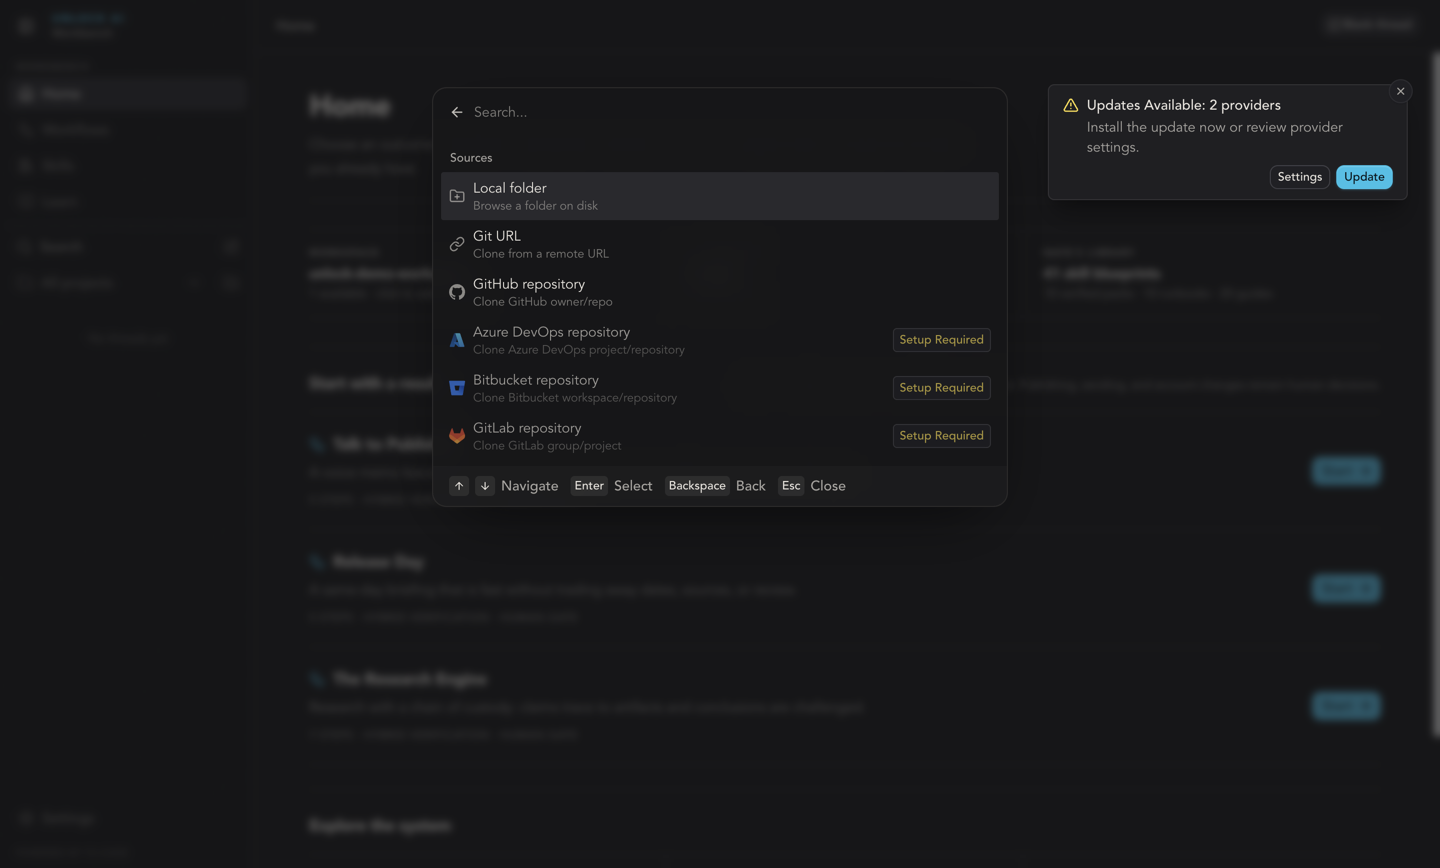
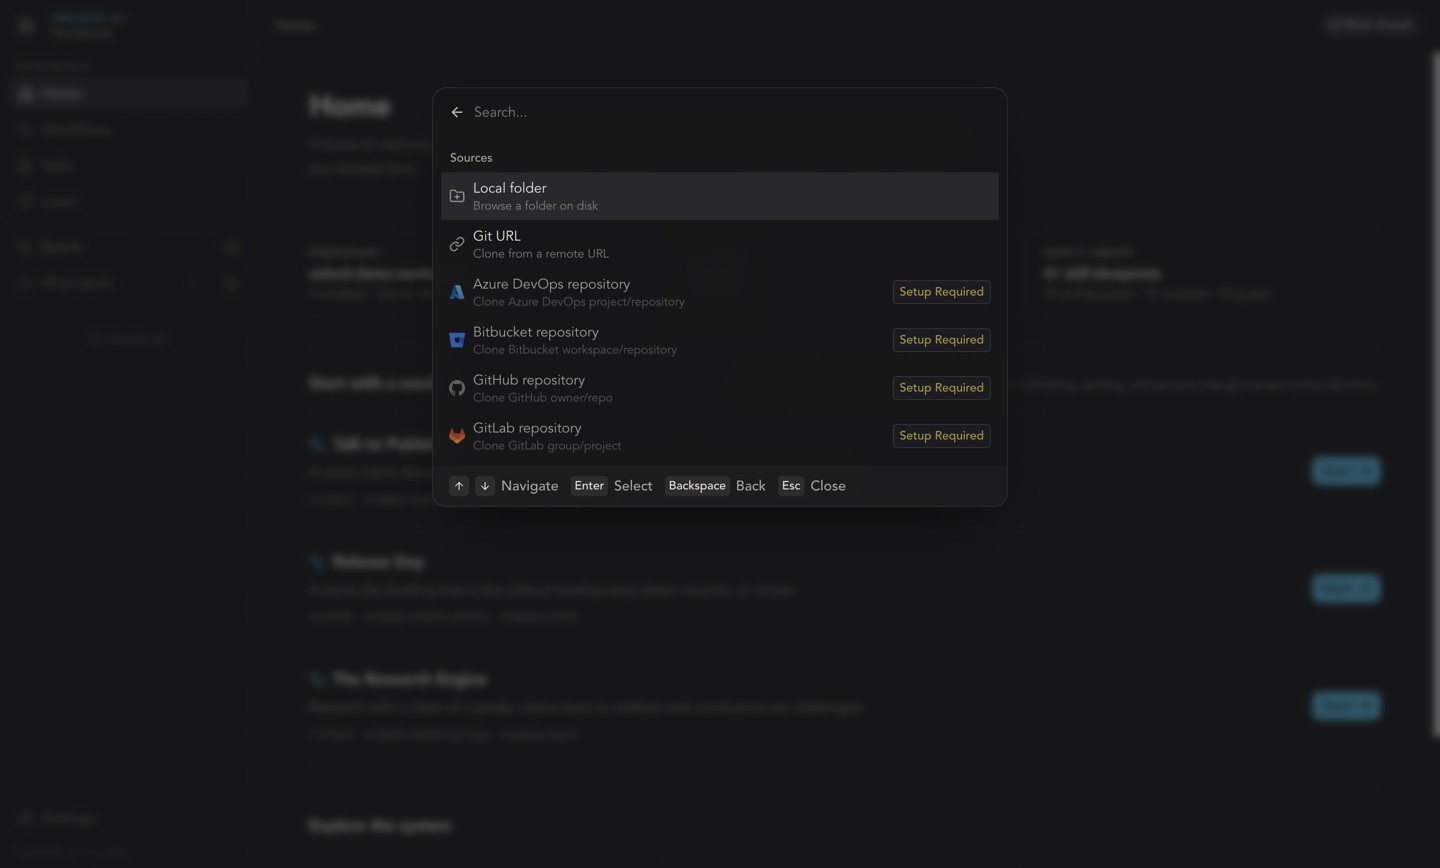
fix(web): provider updates live in Settings, not a launch popup; refresh tour screenshots
The update notice interrupted every first session and photobombed the
visual tour. Provider update status and one-click install remain in
Settings -> Providers. All ten tour screenshots recaptured clean.

diff --git a/apps/web/src/routes/__root.tsx b/apps/web/src/routes/__root.tsx
@@ -17,7 +17,6 @@ import { CommandPalette } from "../components/CommandPalette";
 import { ConnectOnboardingDialog } from "../components/cloud/ConnectOnboardingDialog";
 import { RelayClientInstallDialog } from "../components/cloud/RelayClientInstallDialog";
 import { SshPasswordPromptDialog } from "../components/desktop/SshPasswordPromptDialog";
-import { ProviderUpdateLaunchNotification } from "../components/ProviderUpdateLaunchNotification";
 import { SlowRpcRequestToastCoordinator } from "../components/SlowRpcRequestToastCoordinator";
 import { Button } from "../components/ui/button";
 import {
@@ -137,7 +136,7 @@ function RootRouteView() {
         <SlowRpcRequestToastCoordinator />
         <HostedStaticEnvironmentBootstrap />
         {primaryEnvironmentAuthenticated ? <EventRouter /> : null}
-        {primaryEnvironmentAuthenticated ? <ProviderUpdateLaunchNotification /> : null}
+        {/* Workbench keeps provider updates in Settings; no launch interruption. */}
         {appShell}
       </AnchoredToastProvider>
     </ToastProvider>

diff --git a/docs/user/visual-tour.md b/docs/user/visual-tour.md
@@ -14,7 +14,7 @@ Home answers one question: are you ready to run something? The three tiles acros
 
 Below the tiles, **Start with a result** lists the three runnable workflows — **Talk to Published**, **Release Day**, and **The Research Engine** — each with its step count, verification style, and a human-gate marker. Press **Start** on any of them and the Workbench prepares a prompt for your review (see [Launching a workflow](#launching-a-workflow) below). The line above the cards is a promise the whole product keeps: every v1 workflow ends at a reviewable local artifact, and publishing, sending, and account changes remain human decisions.
 
-When an update notice appears in the corner, **Update** installs it now; **Settings** lets you review provider settings first. Dismiss it with the × and it will not nag you mid-task.
+Provider updates never interrupt you here — when a newer Claude Code or Codex is available, you will find the update waiting under **Settings → Providers**, on your schedule.
 
 ## Adding your workspace folder
 
